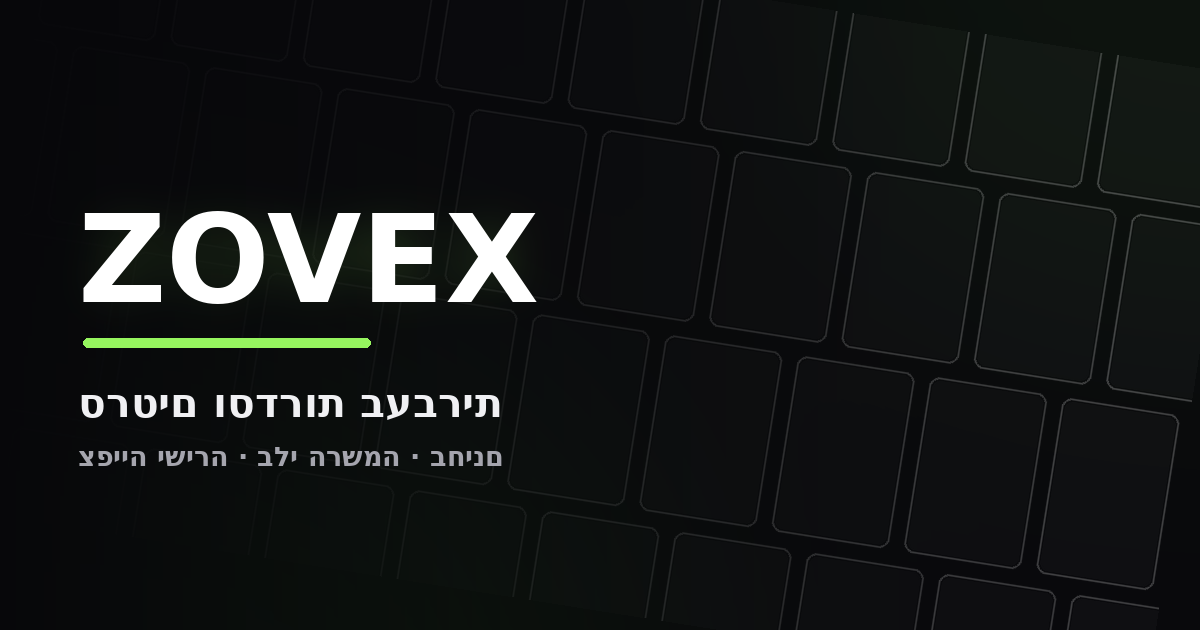
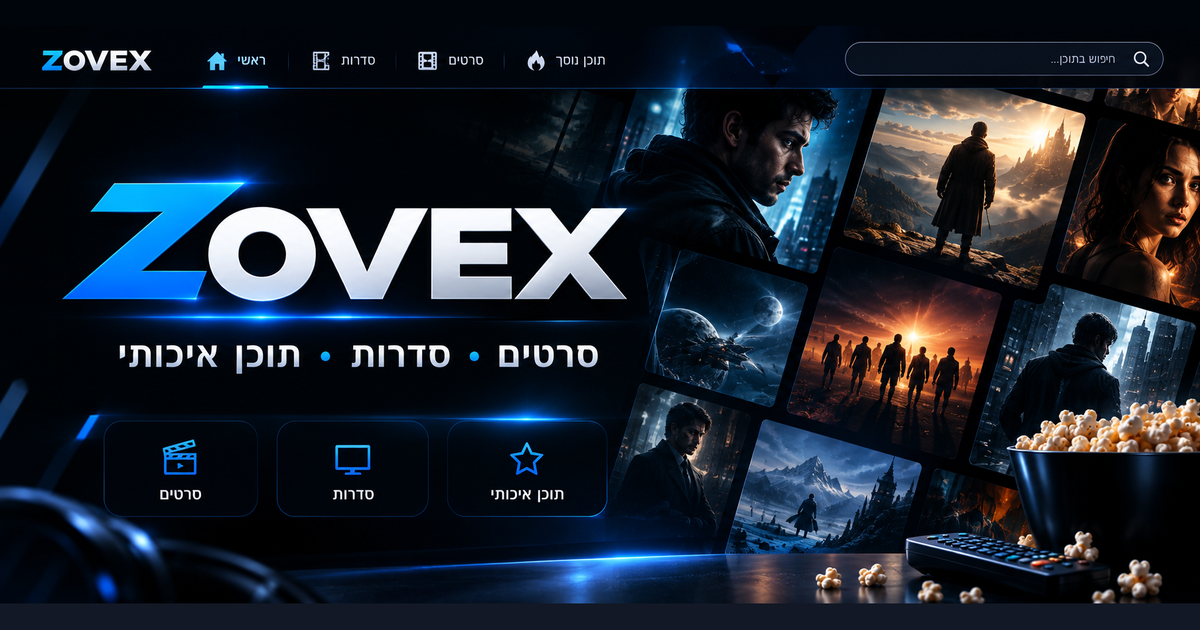
site: מחליף את תמונת התצוגה המקדימה (og.png)
התמונה הקודמת הוצגה עם עברית הפוכה — "תירבע תורדסו םיטרס" במקום
"סרטים וסדרות בעברית", וכך היא הופיעה בכל שיתוף בוואטסאפ ובפייסבוק.

התמונה החדשה רופדה לגובה ולא נחתכה לרוחב, כדי ששום חלק ממנה לא ילך
לאיבוד ב-1200x630 שפייסבוק דורש. צבעי הריפוד נדגמו מהשורה העליונה
והתחתונה של התמונה עצמה, כך שהתפר אינו נראה.

התגים עודכנו ל-og.png?v=2: פייסבוק וואטסאפ שומרים תצוגה מקדימה לפי
כתובת, ובלי שינוי בכתובת הם היו ממשיכים להציג את התמונה הישנה.

Claude-Session: https://claude.ai/code/session_01HkzaYMG15PzxpFqbcNJdZi

diff --git a/index.html b/index.html
@@ -15,8 +15,8 @@
     <!-- בלי og:image כל קישור שמפורסם בפייסבוק, בוואטסאפ או ב-X מופיע
          כריבוע אפור ריק, וזה קוטל את אחוז ההקלקה בדיוק בערוץ שממנו מגיעים
          המשתמשים. הכתובת מוחלטת בכוונה: פייסבוק אינו פותר נתיבים יחסיים. -->
-    <meta property="og:image" content="https://zovex.duckdns.org/og.png" />
-    <meta property="og:image:secure_url" content="https://zovex.duckdns.org/og.png" />
+    <meta property="og:image" content="https://zovex.duckdns.org/og.png?v=2" />
+    <meta property="og:image:secure_url" content="https://zovex.duckdns.org/og.png?v=2" />
     <meta property="og:image:type" content="image/png" />
     <meta property="og:image:width" content="1200" />
     <meta property="og:image:height" content="630" />
@@ -26,7 +26,7 @@
     <meta name="twitter:card" content="summary_large_image" />
     <meta name="twitter:title" content="ZOVEX - צפייה ישירה בסרטים וסדרות" />
     <meta name="twitter:description" content="סרטים, סדרות, אנימה ותוכן לילדים - צפייה ישירה בעברית, בלי הרשמה." />
-    <meta name="twitter:image" content="https://zovex.duckdns.org/og.png" />
+    <meta name="twitter:image" content="https://zovex.duckdns.org/og.png?v=2" />
     <meta name="twitter:image:alt" content="ZOVEX - סרטים וסדרות בעברית" />
     <meta name="theme-color" content="#96F55F" />
     <!-- אימות בעלות מול Google. שני התגים במקביל ולא החלפה: כל אימות שייך
